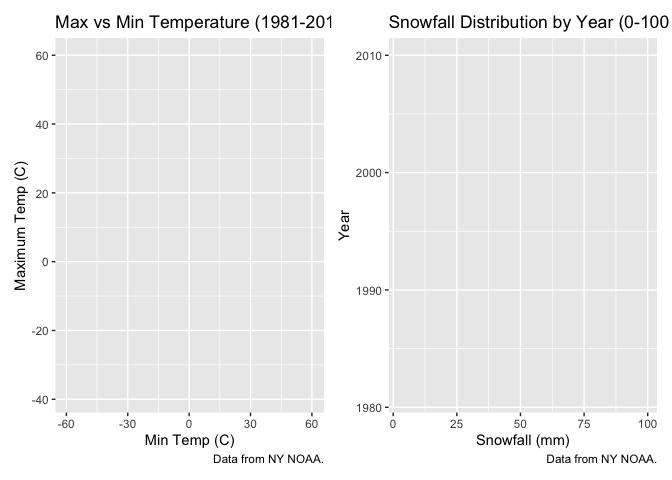
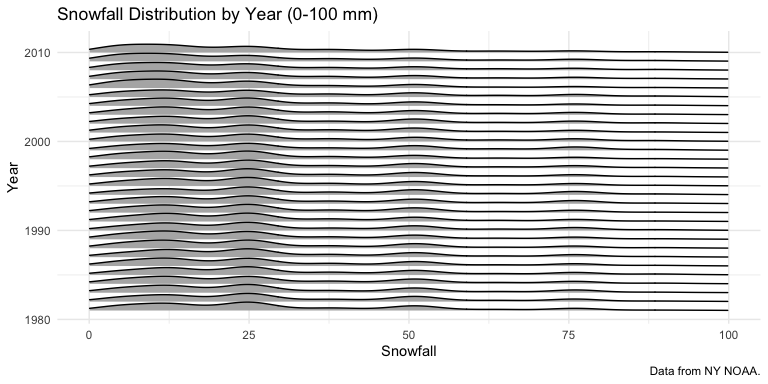
Formatting updates to Q3 & Snow-plot adjustment

diff --git a/p8105_hw3_nh2706.md b/p8105_hw3_nh2706.md
@@ -4,22 +4,11 @@ Niklas Hess
 10/14/2022
 
 ``` r
-library(tidyverse)
-```
-
-    ## ── Attaching packages ─────────────────────────────────────── tidyverse 1.3.2 ──
-    ## ✔ ggplot2 3.3.6      ✔ purrr   0.3.4 
-    ## ✔ tibble  3.1.8      ✔ dplyr   1.0.10
-    ## ✔ tidyr   1.2.0      ✔ stringr 1.4.1 
-    ## ✔ readr   2.1.2      ✔ forcats 0.5.2 
-    ## ── Conflicts ────────────────────────────────────────── tidyverse_conflicts() ──
-    ## ✖ dplyr::filter() masks stats::filter()
-    ## ✖ dplyr::lag()    masks stats::lag()
-
-``` r
-library(patchwork)
-library(ggridges)
-library(p8105.datasets)
+knitr::opts_chunk$set(echo = TRUE) 
+knitr::opts_chunk$set(
+  fig.width = 12,
+  fig.asp = .7,
+  out.width = "90%")
 ```
 
 \#Problem 1 Omitted, as solutions are provided by Professor.
@@ -98,7 +87,7 @@ mean_max_temp
 
     ## Warning: Removed 5640 row(s) containing missing values (geom_path).
 
-![](p8105_hw3_nh2706_files/figure-gfm/unnamed-chunk-5-1.png)<!-- -->
+<img src="p8105_hw3_nh2706_files/figure-gfm/unnamed-chunk-3-1.png" width="90%" />
 
 Is there any observable / interpretable structure? Any outliers?
 
@@ -111,16 +100,18 @@ maxmin_plot = clean_noaa_df %>%
   labs(title = "Max vs Min Temp over years",
        x = "Max Temp (C)",
        y = "Min Temp (C)",
-       caption = "Data from NY NOAA.")
+       caption = "Data from NY NOAA.") +
+  theme(legend.position = "left")
 ```
 
 ``` r
 snowfall_plot = clean_noaa_df %>%
   filter(snow > 0, snow < 100) %>%
-  ggplot(aes(x = year, y = year)) +
-  geom_line() +
+  ggplot(aes(x = snow, y = as.factor(year))) +
+  geom_density_ridges(scale = 1) +
+  xlim(0, 100) +
   labs(title = "Snowfall Distribution by Year (0-100 mm)",
-       x = "Snowfall (mm)",
+       x = "Snowfall",
        y = "Year",
        caption = "Data from NY NOAA.")
 ```
@@ -131,4 +122,6 @@ maxmin_plot + snowfall_plot
 
     ## Warning: Removed 1136276 rows containing non-finite values (stat_binhex).
 
-![](p8105_hw3_nh2706_files/figure-gfm/unnamed-chunk-8-1.png)<!-- -->
+    ## Picking joint bandwidth of 3.76
+
+<img src="p8105_hw3_nh2706_files/figure-gfm/unnamed-chunk-6-1.png" width="90%" />
